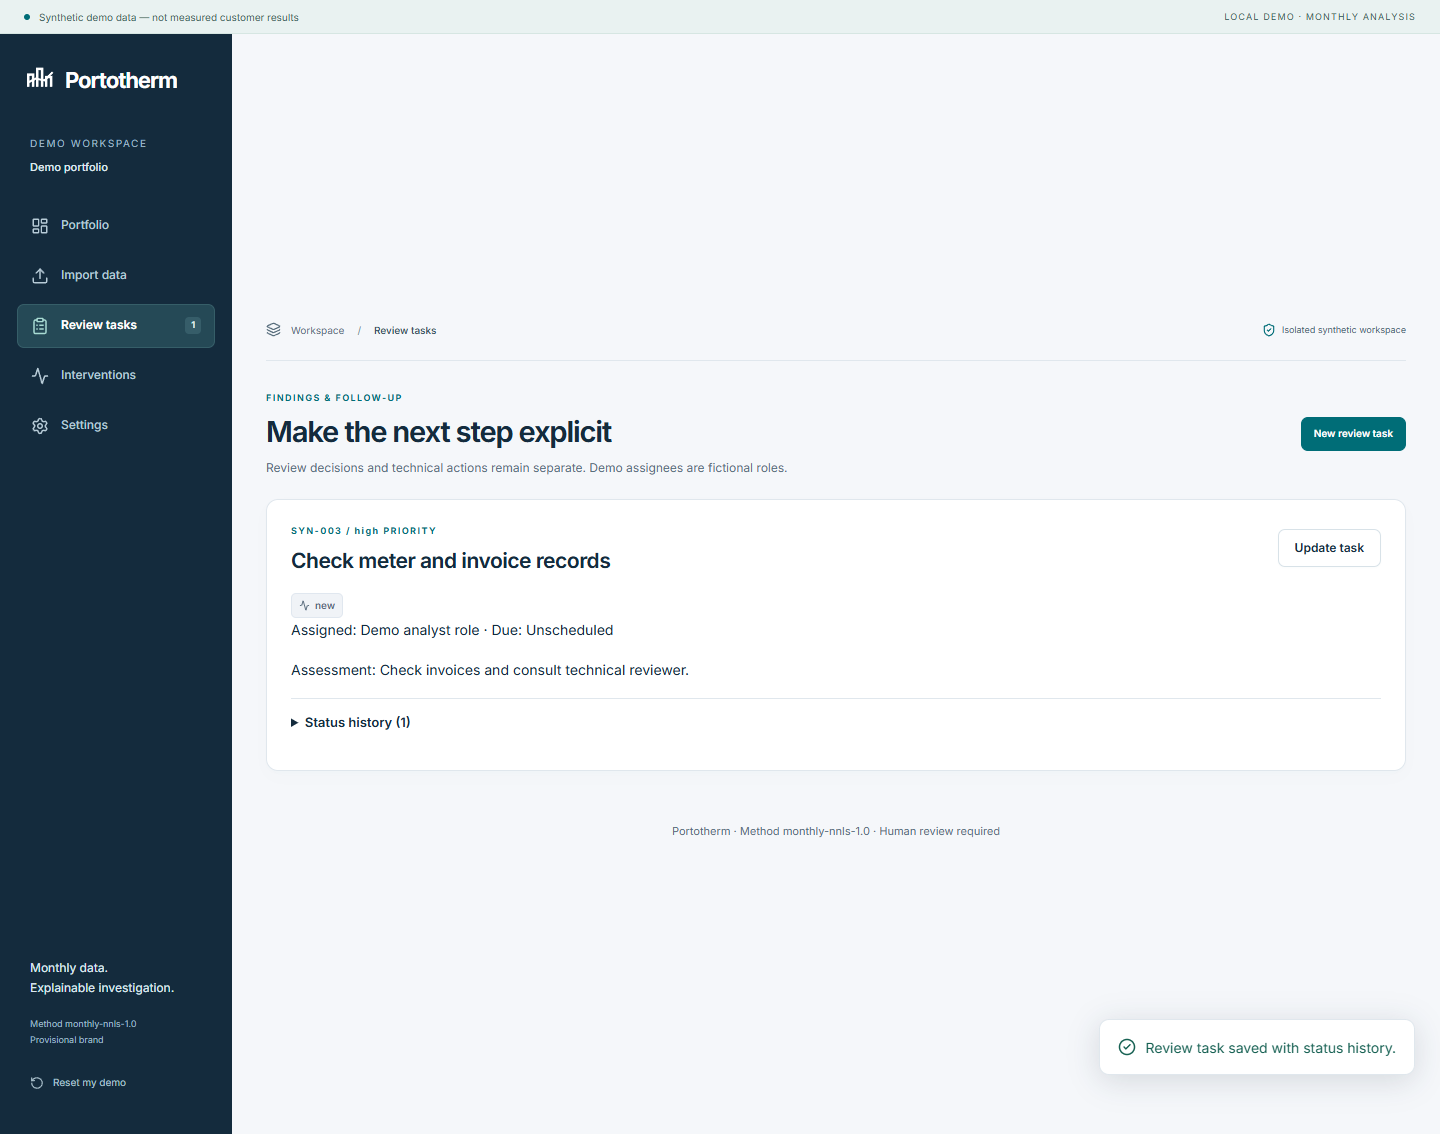
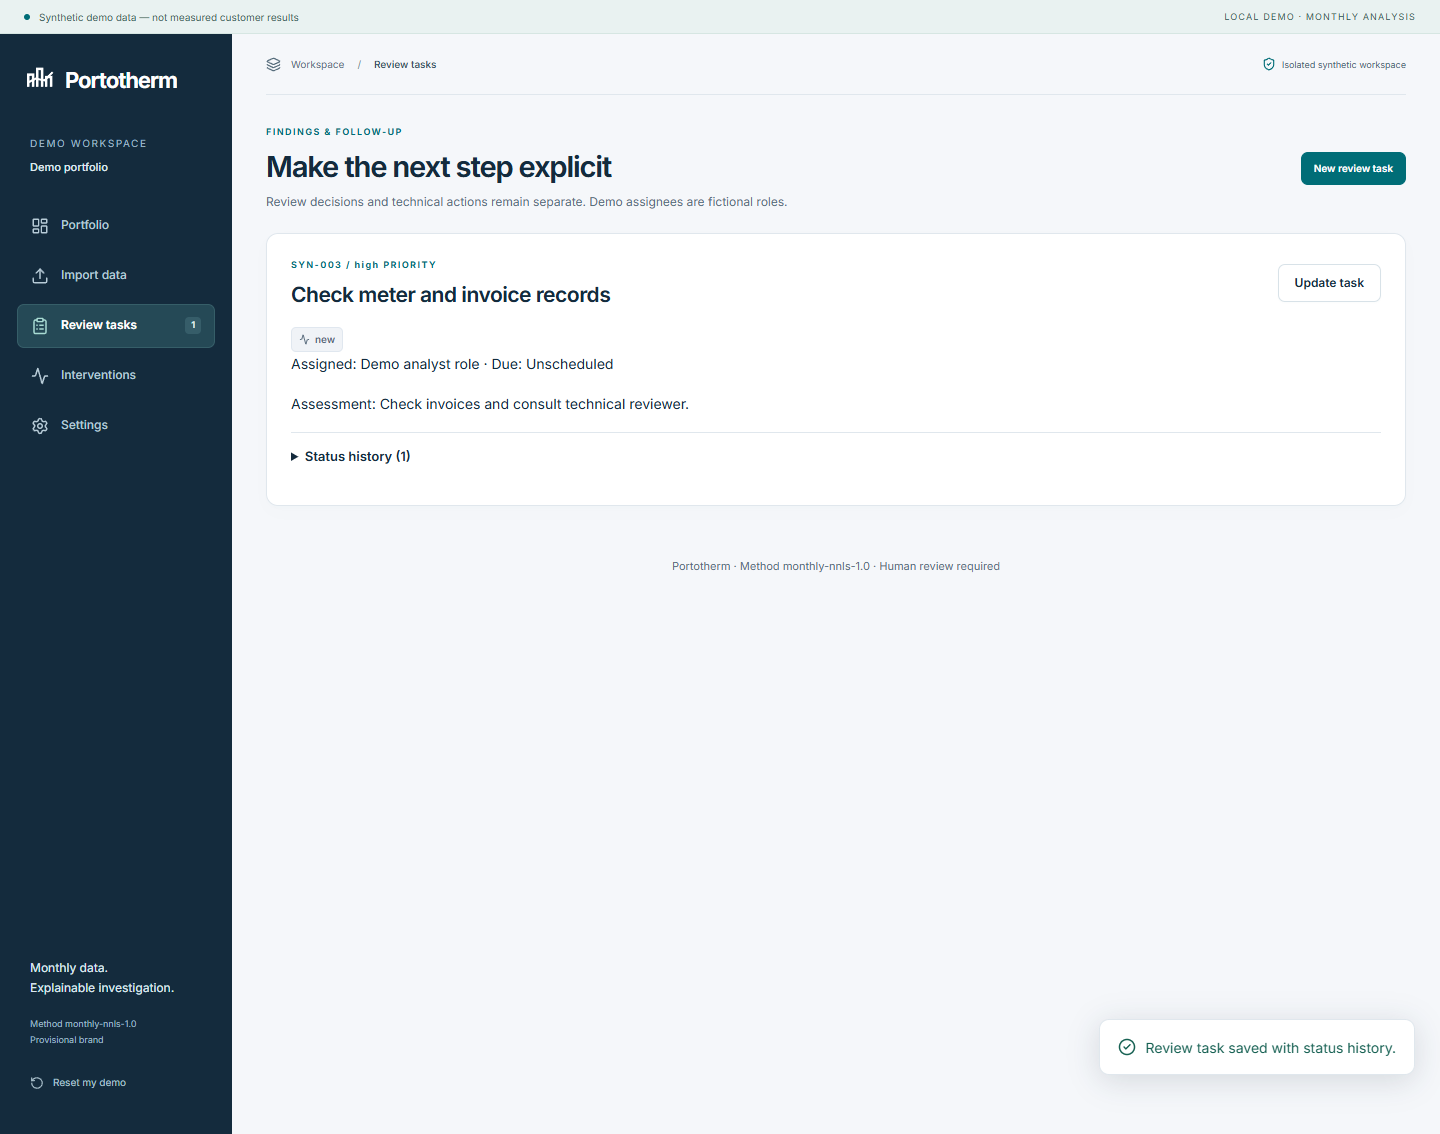
Keep short workspace screens aligned with navigation

diff --git a/apps/web/src/theme.css b/apps/web/src/theme.css
@@ -340,6 +340,7 @@ aside nav button.active svg {
 .app-main {
   padding: 0 34px;
   max-width: 1700px;
+  margin: 0 auto;
 }
 .workspace-toolbar {
   min-height: 61px;

diff --git a/STATUS.md b/STATUS.md
@@ -40,3 +40,5 @@ The earlier automatic-review upload block was superseded by the user's explicit 
 - Strengthened CI with PostgreSQL, migrations/repeated seed, Node 24, pinned action commits and retained browser evidence. Quality revision b831a68 pushed and remote CI passed: https://github.com/sergio4848/HeatingPortfolioAnalytics/actions/runs/38729923038. PostgreSQL migration/seed, Python checks, web checks and Chromium/axe completed successfully. Evidence: reports/github-actions-quality.json.
 
 The real-data pilot and production gates above remain open. Product quality improvements do not establish field results or production readiness.
+
+Final visual polish: short workspace pages now align at the top rather than vertically centering. PostgreSQL browser suite rerun after this CSS fix; 9/9 passed. The documentation commit 0fd7ac6 also passed Actions run 38730245379.
